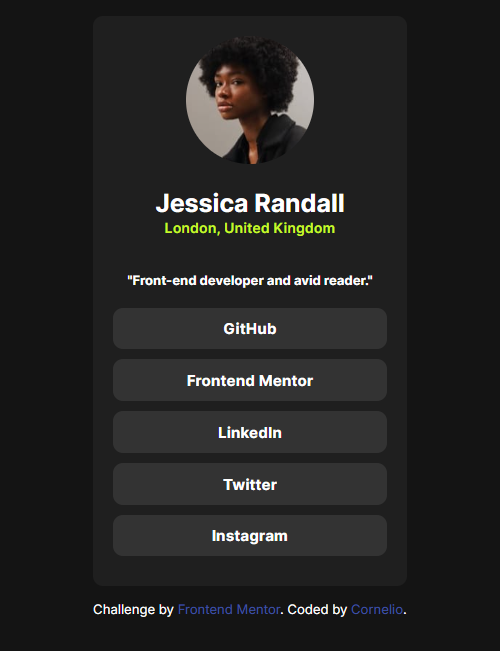
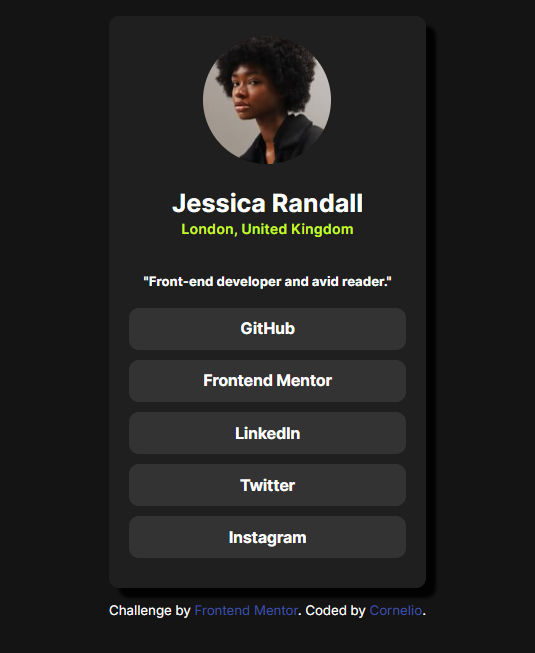
Adding some styles

diff --git a/src/components/Profile.vue b/src/components/Profile.vue
@@ -66,6 +66,8 @@
   border-radius: 0.625rem;
   padding: 1.25rem;
   color: var(--white);
+  box-shadow: 0.625rem 0.625rem 0.2rem rgba(0, 0, 0, 0.9);
+  overflow: hidden;
 }
 
 .social-links {
